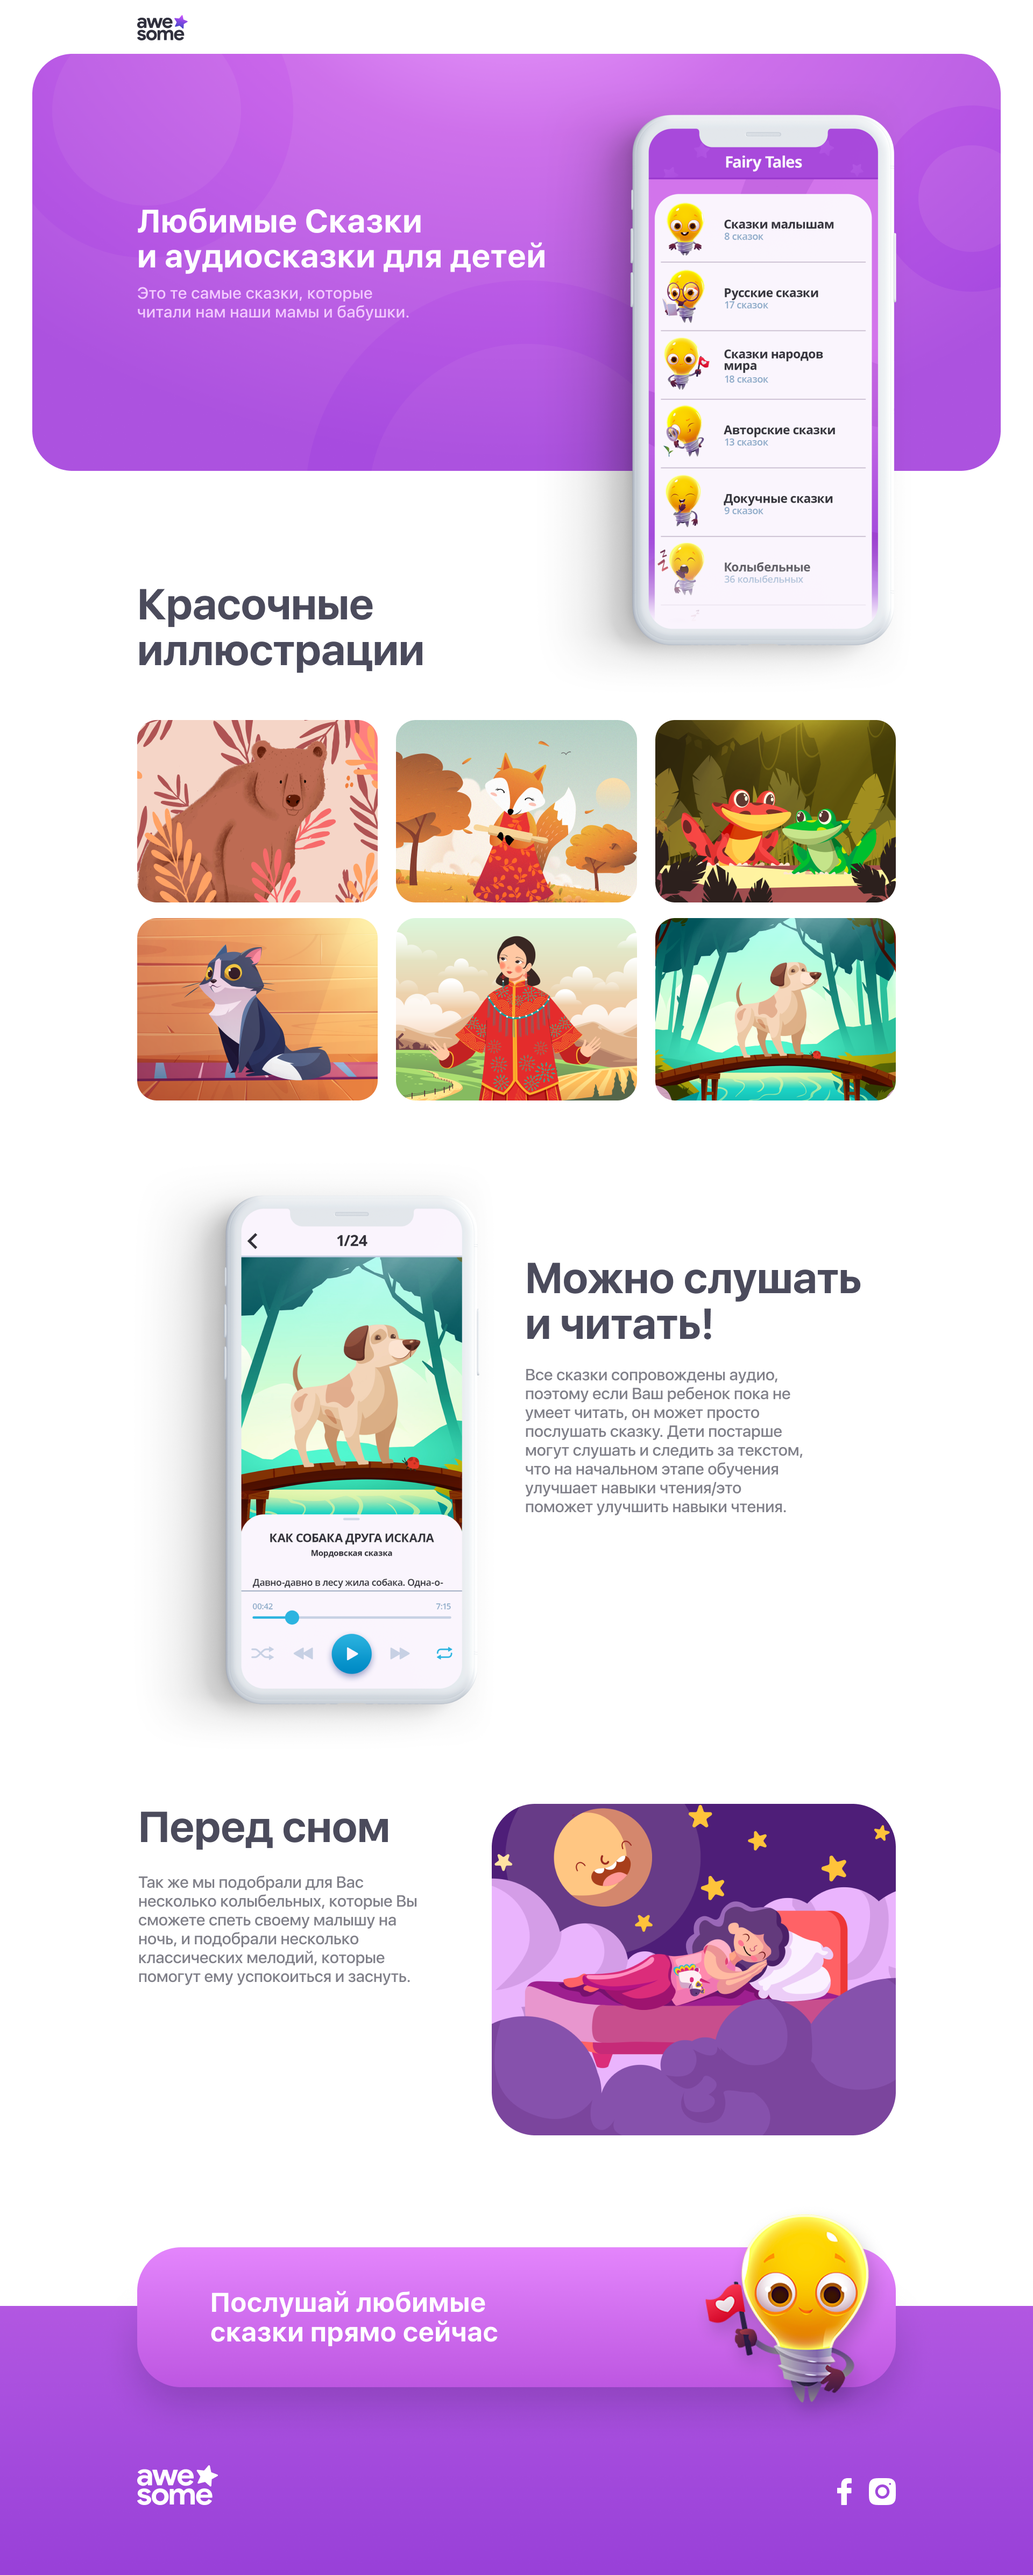
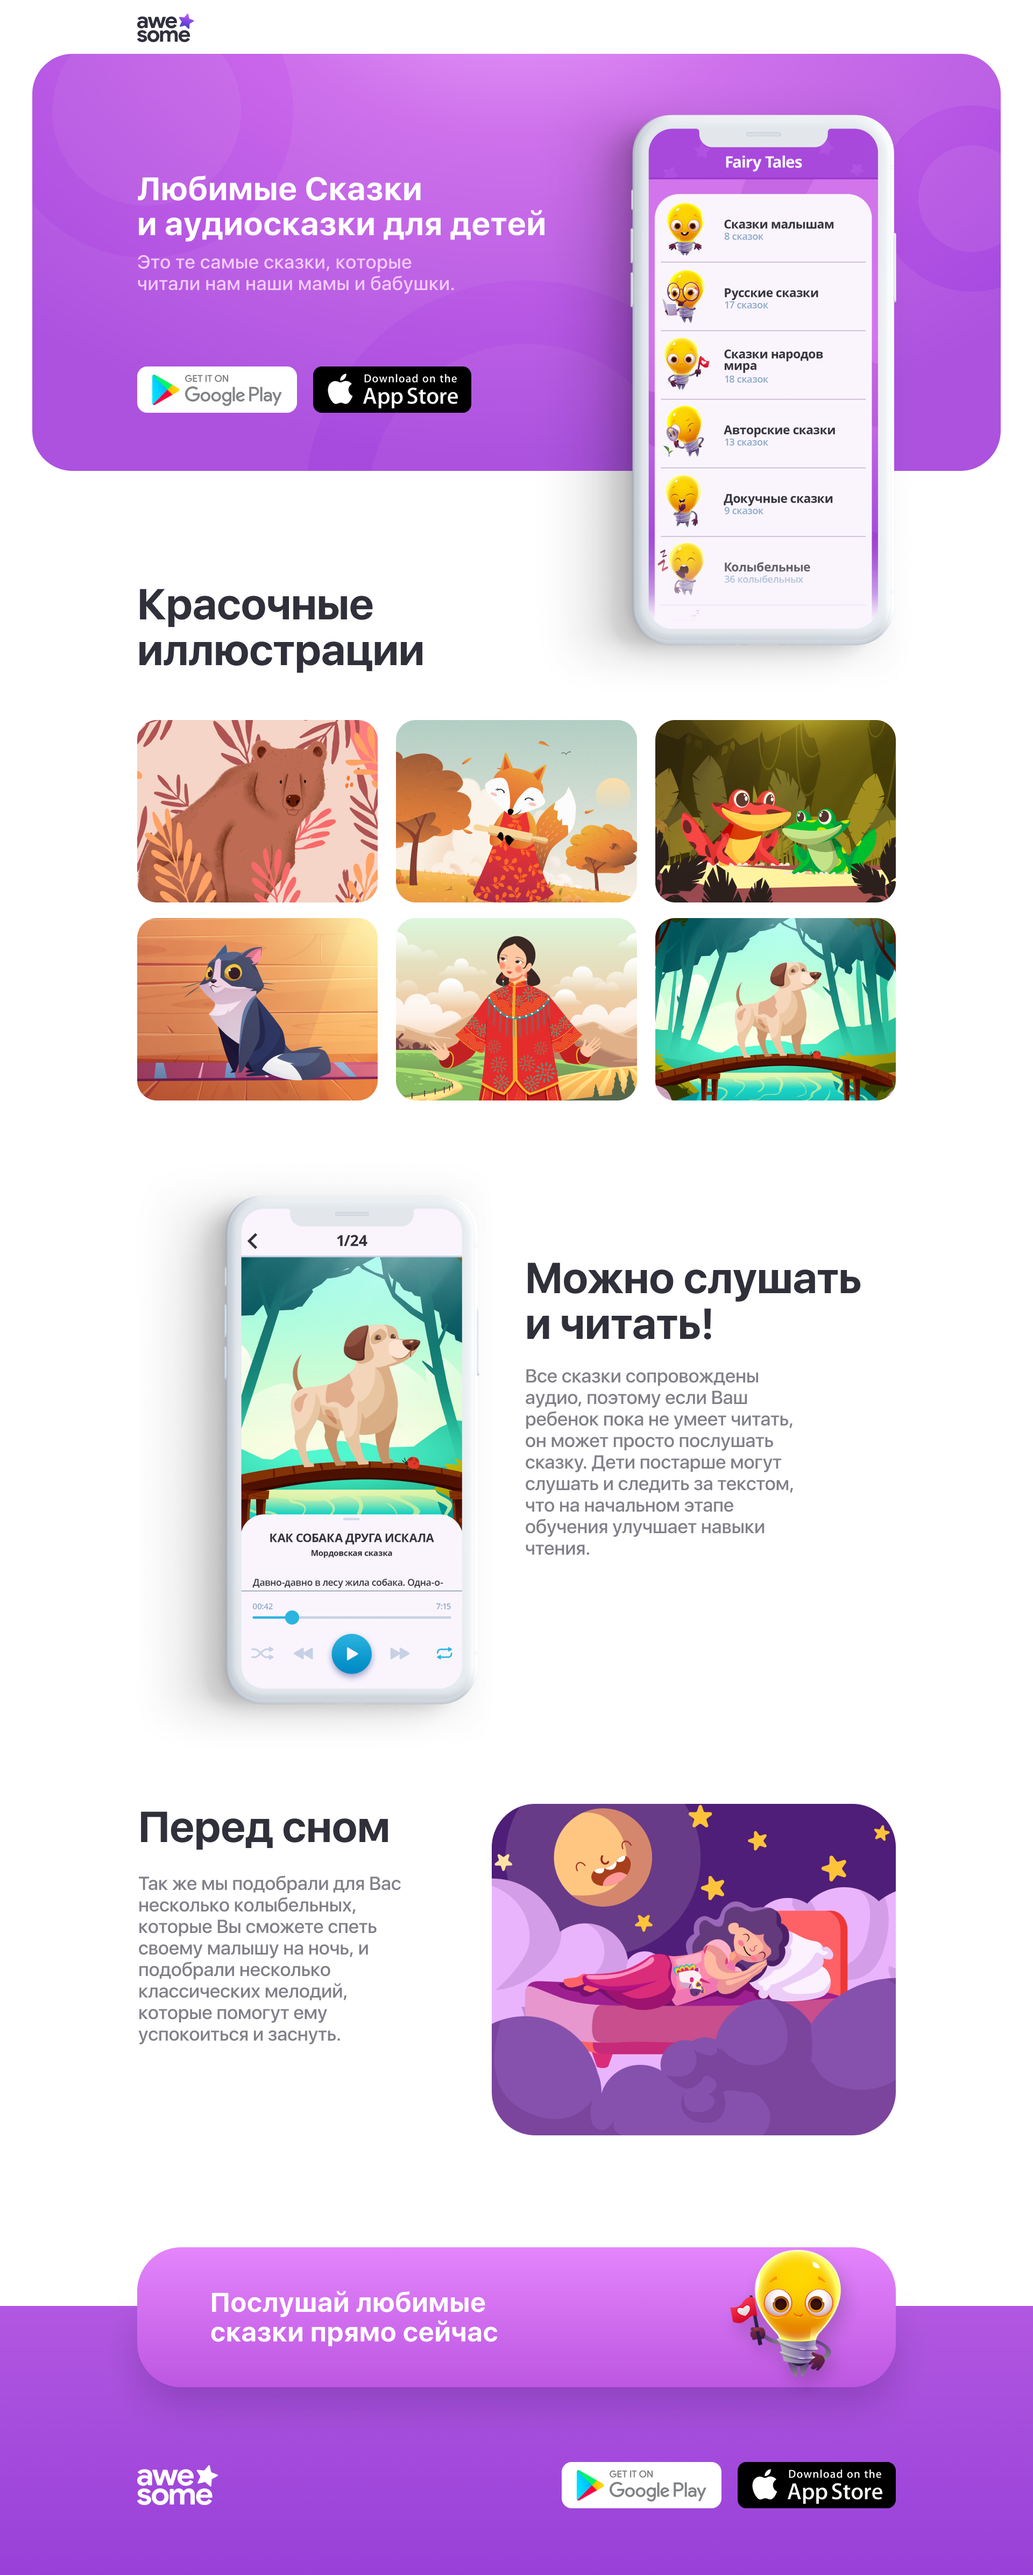
implement final stores buttons design

diff --git a/index.html b/index.html
@@ -15,12 +15,12 @@
 
 			.container .btnGooglePlay {
 			  position: absolute;
-			  top: 14%;
+			  top: 13%;
 			  left: 8%;
-			  right: 77%;
+			  right: 71%;
 			  bottom: 84%;
-			  background-color: #555;
-			  color: white;
+			  background-color: transparent;
+			  color: transparent;
 			  font-size: 16px;
 			  padding: 12px 24px;
 			  border: none;
@@ -31,12 +31,44 @@
 
 			.container .btnAppStore {
 			  position: absolute;
-			  top: 14%;
+			  top: 13%;
 			  left: 30%;
-			  right: 55%;
+			  right: 47%;
 			  bottom: 84%;
-			  background-color: #555;
-			  color: white;
+			  background-color: transparent;
+			  color: transparent;
+			  font-size: 16px;
+			  padding: 12px 24px;
+			  border: none;
+			  cursor: pointer;
+			  border-radius: 5px;
+			  text-align: center;
+			}
+
+			.container .btnGooglePlay2 {
+			  position: absolute;
+			  top: 95%;
+			  left: 45%;
+			  right: 30%;
+			  bottom: 2%;
+			  background-color: transparent;
+			  color: transparent;
+			  font-size: 16px;
+			  padding: 12px 24px;
+			  border: none;
+			  cursor: pointer;
+			  border-radius: 5px;
+			  text-align: center;
+			}
+
+			.container .btnAppStore2 {
+			  position: absolute;
+			  top: 95%;
+			  left: 71%;
+			  right: 5%;
+			  bottom: 2%;
+			  background-color: transparent;
+			  color: transparent;
 			  font-size: 16px;
 			  padding: 12px 24px;
 			  border: none;
@@ -50,8 +82,10 @@
 	<body>
 		<div class="container">
 			<img src="FairyTales_Web.png">
-			<a class="btnGooglePlay" href="https://play.google.com/store/apps/details?id=com.AwesomeCompany.FairyTales" target="_blank">Google Play</a>
-			<a class="btnAppStore" href="https://apps.apple.com/us/app/%D1%81%D0%BA%D0%B0%D0%B7%D0%BA%D0%B8-%D0%B8-%D0%B0%D1%83%D0%B4%D0%B8%D0%BE%D1%81%D0%BA%D0%B0%D0%B7%D0%BA%D0%B8-%D0%B4%D0%BB%D1%8F-%D0%B4%D0%B5%D1%82%D0%B5%D0%B9/id1548770377" target="_blank">App Store</a>
+			<a class="btnGooglePlay" href="https://play.google.com/store/apps/details?id=com.AwesomeCompany.FairyTales" target="_blank"/a>
+			<a class="btnAppStore" href="https://apps.apple.com/us/app/%D1%81%D0%BA%D0%B0%D0%B7%D0%BA%D0%B8-%D0%B8-%D0%B0%D1%83%D0%B4%D0%B8%D0%BE%D1%81%D0%BA%D0%B0%D0%B7%D0%BA%D0%B8-%D0%B4%D0%BB%D1%8F-%D0%B4%D0%B5%D1%82%D0%B5%D0%B9/id1548770377" target="_blank"/a>
+			<a class="btnGooglePlay2" href="https://play.google.com/store/apps/details?id=com.AwesomeCompany.FairyTales" target="_blank"/a>
+			<a class="btnAppStore2" href="https://apps.apple.com/us/app/%D1%81%D0%BA%D0%B0%D0%B7%D0%BA%D0%B8-%D0%B8-%D0%B0%D1%83%D0%B4%D0%B8%D0%BE%D1%81%D0%BA%D0%B0%D0%B7%D0%BA%D0%B8-%D0%B4%D0%BB%D1%8F-%D0%B4%D0%B5%D1%82%D0%B5%D0%B9/id1548770377" target="_blank"/a>
 		</div>
 	</body>
 </html>
